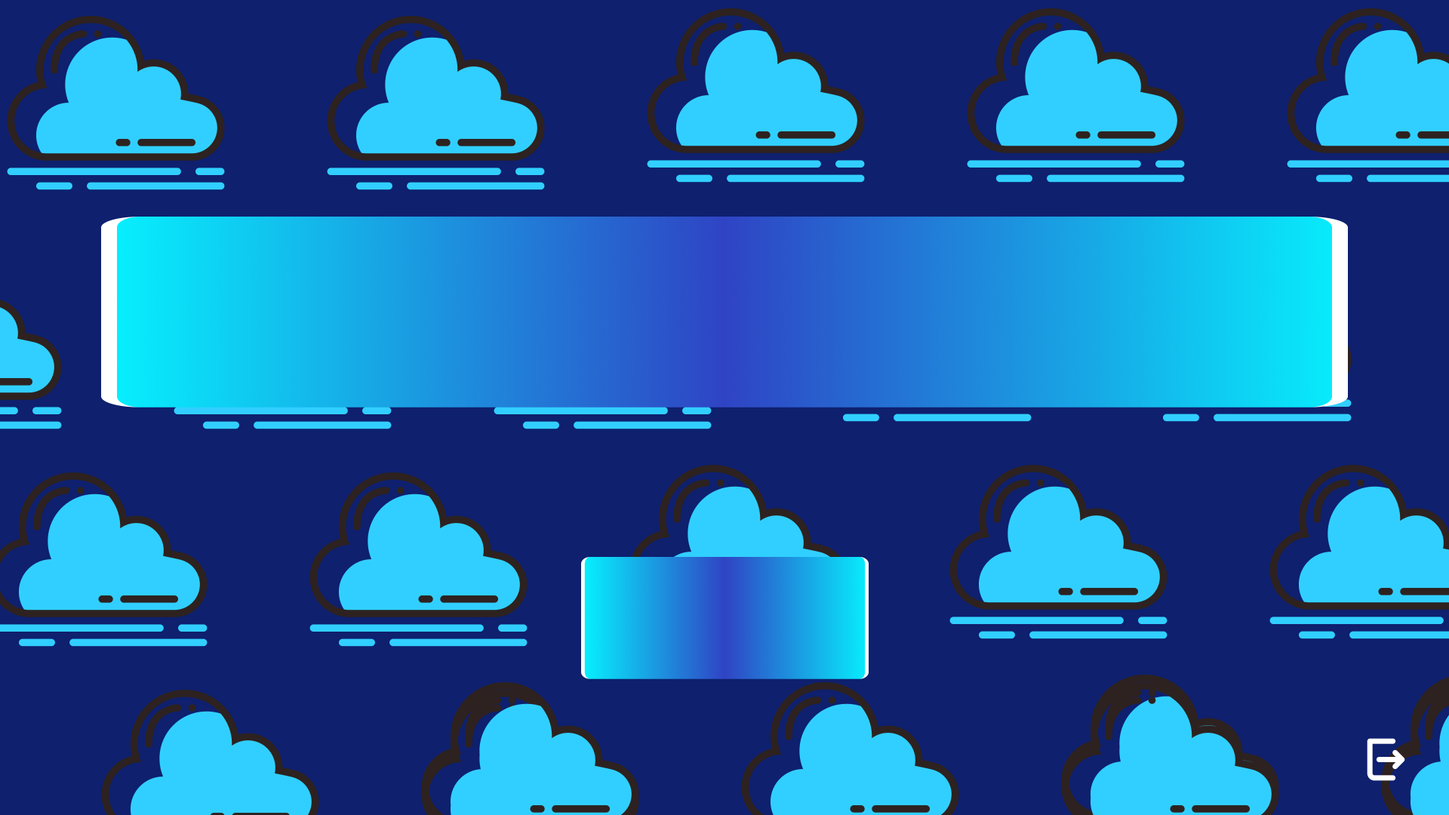
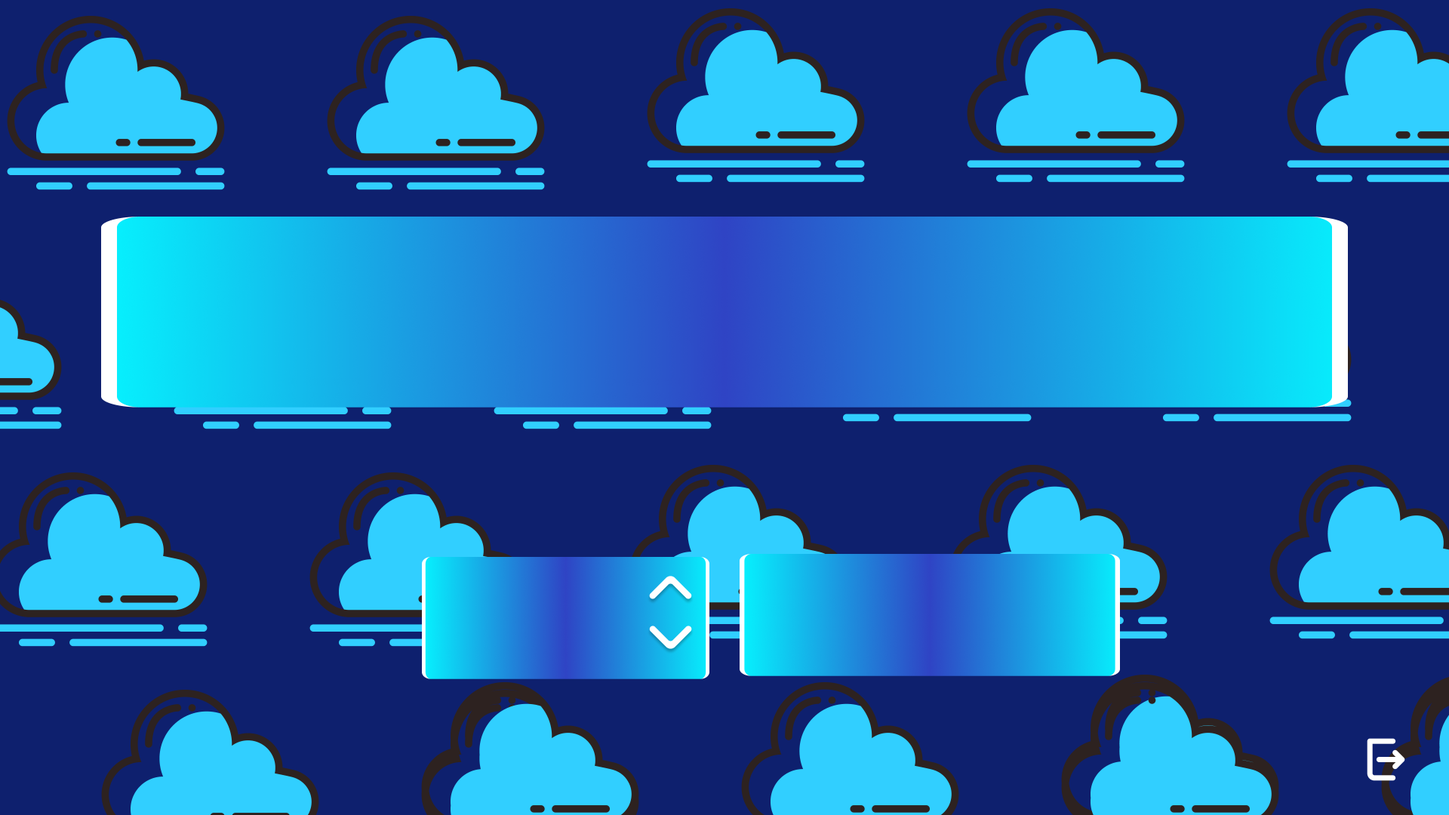
Added Host_WaitingForPlayers
TODO: GetCurrentGameID() and GetConnectedPlayersNumber()

Changed region(s): [[0.2812, 0.6722, 0.7812, 0.8556]]

diff --git a/board-games/board-games/View/ChoosePlayerNumberView.xaml b/board-games/board-games/View/ChoosePlayerNumberView.xaml
@@ -8,39 +8,32 @@
       d:DesignHeight="450" d:DesignWidth="800"
       Title="ChoosePlayerNumberView">
 
-    <Viewbox xmlns:x="http://schemas.microsoft.com/winfx/2006/xaml" xmlns:d="http://schemas.microsoft.com/expression/blend/2008" xmlns="http://schemas.microsoft.com/winfx/2006/xaml/presentation" Stretch="Uniform" Name="ChoosePlayerNr_ImageBackground_xaml">
-
+    <Viewbox xmlns:x="http://schemas.microsoft.com/winfx/2006/xaml" xmlns:d="http://schemas.microsoft.com/expression/blend/2008" xmlns="http://schemas.microsoft.com/winfx/2006/xaml/presentation" Stretch="Uniform" Name="ChoosePlayerNr_ImageBackground_confirm_xaml">
         <Canvas UseLayoutRounding="False" Width="1920.0" Height="1080.0">
-            <Image Source="../Resources/choose_player_number_background.png" Width="1920" Height="1080"/>
+            <Canvas.Clip>
+                <RectangleGeometry Rect="0.0,0.0,1920.0,1080.0"/>
+            </Canvas.Clip>
+            <Image Source="../Resources/choose_player_number_background.png" Width="1920" Height="1079"/>
             <Canvas UseLayoutRounding="False">
                 <Canvas.Clip>
                     <RectangleGeometry Rect="0.0,0.0,1920.0,1080.0"/>
                 </Canvas.Clip>
-                <Canvas UseLayoutRounding="False">
-                    <Path Fill="#ffffffff">
-                        <Path.Data>
-                            <PathGeometry Figures="M 1121.98 796.343 C 1123.63 794.699 1123.63 792.034 1121.98 790.391 L 1101.39 769.823 C 1098.11 766.539 1092.78 766.54 1089.49 769.826 L 1068.91 790.406 C 1067.27 792.05 1067.27 794.714 1068.91 796.358 C 1070.56 798.001 1073.22 798.001 1074.87 796.358 L 1092.48 778.743 C 1094.12 777.1 1096.79 777.1 1098.43 778.743 L 1116.03 796.343 C 1117.67 797.986 1120.34 797.986 1121.98 796.343 Z" FillRule="Nonzero"/>
-                        </Path.Data>
-                    </Path>
-                </Canvas>
-                <Canvas UseLayoutRounding="False">
-                    <Path Fill="#ffffffff">
-                        <Path.Data>
-                            <PathGeometry Figures="M 1069.02 834.657 C 1067.37 836.301 1067.37 838.966 1069.02 840.609 L 1089.61 861.177 C 1092.89 864.461 1098.22 864.46 1101.51 861.174 L 1122.09 840.594 C 1123.73 838.95 1123.73 836.286 1122.09 834.642 C 1120.44 832.999 1117.78 832.999 1116.13 834.642 L 1098.52 852.257 C 1096.88 853.9 1094.21 853.9 1092.57 852.257 L 1074.97 834.657 C 1073.33 833.014 1070.66 833.014 1069.02 834.657 Z" FillRule="Nonzero"/>
-                        </Path.Data>
-                    </Path>
-                </Canvas>
                 <Path Fill="#ffffffff">
                     <Path.Data>
                         <PathGeometry Figures="M 321.47 398.48 C 308.798 398.48 299.102 395.568 292.382 389.744 C 285.662 383.856 282.302 375.152 282.302 363.632 C 282.302 352.176 285.662 343.504 292.382 337.616 C 299.102 331.728 308.798 328.816 321.47 328.88 L 356.03 329.072 V 341.36 H 322.526 C 314.206 341.36 308.03 343.12 303.998 346.64 C 299.966 350.16 297.95 355.824 297.95 363.632 C 297.95 371.44 299.966 377.136 303.998 380.72 C 308.03 384.24 314.206 386 322.526 386 H 356.99 V 398.48 H 321.47 Z M 366.579 398 V 329.36 H 381.939 V 357.488 H 430.323 V 329.36 H 445.683 V 398 H 430.323 V 369.968 H 381.939 V 398 H 366.579 Z M 493.767 398.48 C 481.543 398.48 472.071 395.568 465.351 389.744 C 458.631 383.856 455.271 375.152 455.271 363.632 C 455.271 352.176 458.631 343.536 465.351 337.712 C 472.071 331.824 481.767 328.88 494.439 328.88 H 511.719 C 524.391 328.88 534.087 331.824 540.807 337.712 C 547.527 343.536 550.887 352.176 550.887 363.632 C 550.887 375.152 547.527 383.856 540.807 389.744 C 534.087 395.568 524.551 398.48 512.199 398.48 H 493.767 Z M 495.495 341.36 C 488.391 341.36 482.855 342.64 478.887 345.2 C 474.919 347.76 472.423 351.824 471.399 357.392 H 534.759 C 533.735 351.824 531.239 347.76 527.271 345.2 C 523.303 342.64 517.767 341.36 510.663 341.36 H 495.495 Z M 495.783 386 H 510.663 C 517.831 386 523.367 384.72 527.271 382.16 C 531.239 379.6 533.735 375.504 534.759 369.872 H 471.399 C 472.423 375.504 474.919 379.6 478.887 382.16 C 482.855 384.72 488.487 386 495.783 386 Z M 596.985 398.48 C 584.761 398.48 575.289 395.568 568.569 389.744 C 561.849 383.856 558.489 375.152 558.489 363.632 C 558.489 352.176 561.849 343.536 568.569 337.712 C 575.289 331.824 584.985 328.88 597.657 328.88 H 614.937 C 627.609 328.88 637.305 331.824 644.025 337.712 C 650.745 343.536 654.105 352.176 654.105 363.632 C 654.105 375.152 650.745 383.856 644.025 389.744 C 637.305 395.568 627.769 398.48 615.417 398.48 H 596.985 Z M 598.713 341.36 C 591.609 341.36 586.073 342.64 582.105 345.2 C 578.137 347.76 575.641 351.824 574.617 357.392 H 637.977 C 636.953 351.824 634.457 347.76 630.489 345.2 C 626.521 342.64 620.985 341.36 613.881 341.36 H 598.713 Z M 599.001 386 H 613.881 C 621.049 386 626.585 384.72 630.489 382.16 C 634.457 379.6 636.953 375.504 637.977 369.872 H 574.617 C 575.641 375.504 578.137 379.6 582.105 382.16 C 586.073 384.72 591.705 386 599.001 386 Z M 661.465 398.48 V 386 L 716.665 386.096 C 719.481 386.096 721.625 385.456 723.097 384.176 C 724.633 382.832 725.401 380.688 725.401 377.744 C 725.401 374.8 724.633 372.688 723.097 371.408 C 721.625 370.064 719.481 369.392 716.665 369.392 H 682.297 C 675.193 369.392 669.657 367.696 665.689 364.304 C 661.785 360.848 659.833 355.792 659.833 349.136 C 659.833 342.48 661.785 337.456 665.689 334.064 C 669.657 330.608 675.193 328.88 682.297 328.88 H 736.249 V 341.36 L 683.929 341.264 C 681.177 341.264 679.033 341.904 677.497 343.184 C 675.961 344.4 675.193 346.384 675.193 349.136 C 675.193 351.888 675.961 353.904 677.497 355.184 C 679.033 356.4 681.177 357.008 683.929 357.008 H 718.297 C 725.401 357.008 730.905 358.768 734.809 362.288 C 738.777 365.744 740.761 370.896 740.761 377.744 C 740.761 384.528 738.777 389.68 734.809 393.2 C 730.905 396.72 725.401 398.48 718.297 398.48 H 661.465 Z M 750.392 398 V 329.36 H 825.656 V 341.84 H 765.752 V 357.008 H 820.088 V 369.488 H 765.752 V 385.52 H 825.656 V 398 H 750.392 Z M 869.736 398 V 329.36 H 885.288 L 933.864 378.704 V 329.36 H 949.224 V 398 H 933.672 L 885.096 348.56 V 398 H 869.736 Z M 990.386 398.48 C 983.41 398.48 977.906 397.584 973.874 395.792 C 969.842 393.936 966.962 391.152 965.234 387.44 C 963.506 383.728 962.642 379.056 962.642 373.424 V 329.36 H 978.002 V 373.424 C 978.002 378.288 979.122 381.616 981.362 383.408 C 983.666 385.136 987.538 386 992.978 386 H 1011.51 C 1016.95 386 1020.79 385.136 1023.03 383.408 C 1025.33 381.616 1026.48 378.288 1026.48 373.424 V 329.36 H 1041.84 V 373.424 C 1041.84 379.056 1040.98 383.728 1039.25 387.44 C 1037.52 391.152 1034.64 393.936 1030.61 395.792 C 1026.58 397.584 1021.07 398.48 1014.1 398.48 H 990.386 Z M 1055.27 398 V 329.36 H 1068.13 L 1099.91 351.632 H 1100.39 L 1132.16 329.36 H 1145.03 V 398 H 1129.67 V 348.56 L 1107.87 363.152 V 398 H 1092.51 V 363.152 L 1070.63 348.56 V 398 H 1055.27 Z M 1158.49 398 V 329.552 L 1216.28 329.36 C 1223.89 329.36 1229.53 330.96 1233.17 334.16 C 1236.89 337.296 1238.74 342.032 1238.74 348.368 C 1238.74 354.704 1236.63 359.344 1232.41 362.288 C 1235.22 363.824 1237.3 365.872 1238.65 368.432 C 1239.99 370.928 1240.66 374.16 1240.66 378.128 C 1240.66 384.592 1238.81 389.52 1235.09 392.912 C 1231.45 396.24 1225.81 397.904 1218.2 397.904 L 1158.49 398 Z M 1214.45 341.648 H 1173.85 V 357.008 H 1214.45 C 1220.28 357.008 1223.19 354.384 1223.19 349.136 C 1223.19 344.144 1220.28 341.648 1214.45 341.648 Z M 1216.37 369.296 H 1173.85 V 385.616 H 1216.37 C 1222.2 385.616 1225.11 382.864 1225.11 377.36 C 1225.11 371.984 1222.2 369.296 1216.37 369.296 Z M 1251.2 398 V 329.36 H 1326.47 V 341.84 H 1266.56 V 357.008 H 1320.9 V 369.488 H 1266.56 V 385.52 H 1326.47 V 398 H 1251.2 Z M 1336.99 398 V 329.36 H 1394.49 C 1401.59 329.36 1407.1 331.152 1411 334.736 C 1414.97 338.32 1416.95 343.76 1416.95 351.056 C 1416.95 357.264 1415.51 362.128 1412.63 365.648 C 1409.75 369.168 1405.66 371.376 1400.35 372.272 L 1416.19 398 H 1398.71 L 1384.03 372.752 H 1352.35 V 398 H 1336.99 Z M 1392.67 341.84 H 1352.35 V 360.176 L 1392.67 360.272 C 1395.48 360.272 1397.63 359.568 1399.1 358.16 C 1400.63 356.752 1401.4 354.384 1401.4 351.056 C 1401.4 347.664 1400.63 345.296 1399.1 343.952 C 1397.63 342.544 1395.48 341.84 1392.67 341.84 Z M 1496.7 398.48 C 1484.48 398.48 1475.01 395.568 1468.29 389.744 C 1461.57 383.856 1458.21 375.152 1458.21 363.632 C 1458.21 352.176 1461.57 343.536 1468.29 337.712 C 1475.01 331.824 1484.7 328.88 1497.38 328.88 H 1514.66 C 1527.33 328.88 1537.02 331.824 1543.74 337.712 C 1550.46 343.536 1553.82 352.176 1553.82 363.632 C 1553.82 375.152 1550.46 383.856 1543.74 389.744 C 1537.02 395.568 1527.49 398.48 1515.14 398.48 H 1496.7 Z M 1498.43 341.36 C 1491.33 341.36 1485.79 342.64 1481.82 345.2 C 1477.86 347.76 1475.36 351.824 1474.34 357.392 H 1537.7 C 1536.67 351.824 1534.18 347.76 1530.21 345.2 C 1526.24 342.64 1520.7 341.36 1513.6 341.36 H 1498.43 Z M 1498.72 386 H 1513.6 C 1520.77 386 1526.3 384.72 1530.21 382.16 C 1534.18 379.6 1536.67 375.504 1537.7 369.872 H 1474.34 C 1475.36 375.504 1477.86 379.6 1481.82 382.16 C 1485.79 384.72 1491.42 386 1498.72 386 Z M 1563.39 398 V 329.36 H 1636.74 V 341.84 H 1578.75 V 360.848 H 1629.25 V 373.328 H 1578.75 V 398 H 1563.39 Z M 658.986 513 V 444.36 H 716.49 C 723.594 444.36 729.098 446.152 733.002 449.736 C 736.97 453.32 738.954 458.76 738.954 466.056 C 738.954 473.352 736.97 478.792 733.002 482.376 C 729.098 485.96 723.594 487.752 716.49 487.752 H 674.346 V 513 H 658.986 Z M 714.666 456.84 H 674.346 V 475.176 L 714.666 475.272 C 717.482 475.272 719.626 474.568 721.098 473.16 C 722.634 471.752 723.402 469.384 723.402 466.056 C 723.402 462.664 722.634 460.296 721.098 458.952 C 719.626 457.544 717.482 456.84 714.666 456.84 Z M 748.517 513 V 444.36 H 763.877 V 500.52 H 814.085 V 513 H 748.517 Z M 817.944 513 L 848.856 444.36 H 872.568 L 903.48 513 H 886.776 L 880.248 498.504 H 841.176 L 834.648 513 H 817.944 Z M 846.744 486.024 H 874.68 L 861.336 456.36 H 860.088 L 846.744 486.024 Z M 924.993 513 V 488.52 L 888.609 444.36 H 907.617 L 932.673 475.464 L 957.633 444.36 H 976.641 L 940.449 488.424 V 513 H 924.993 Z M 983.361 513 V 444.36 H 1058.62 V 456.84 H 998.721 V 472.008 H 1053.06 V 484.488 H 998.721 V 500.52 H 1058.62 V 513 H 983.361 Z M 1069.14 513 V 444.36 H 1126.65 C 1133.75 444.36 1139.25 446.152 1143.16 449.736 C 1147.13 453.32 1149.11 458.76 1149.11 466.056 C 1149.11 472.264 1147.67 477.128 1144.79 480.648 C 1141.91 484.168 1137.81 486.376 1132.5 487.272 L 1148.34 513 H 1130.87 L 1116.18 487.752 H 1084.5 V 513 H 1069.14 Z M 1124.82 456.84 H 1084.5 V 475.176 L 1124.82 475.272 C 1127.64 475.272 1129.78 474.568 1131.25 473.16 C 1132.79 471.752 1133.56 469.384 1133.56 466.056 C 1133.56 462.664 1132.79 460.296 1131.25 458.952 C 1129.78 457.544 1127.64 456.84 1124.82 456.84 Z M 1158.43 513.48 V 501 L 1213.63 501.096 C 1216.45 501.096 1218.59 500.456 1220.07 499.176 C 1221.6 497.832 1222.37 495.688 1222.37 492.744 C 1222.37 489.8 1221.6 487.688 1220.07 486.408 C 1218.59 485.064 1216.45 484.392 1213.63 484.392 H 1179.27 C 1172.16 484.392 1166.63 482.696 1162.66 479.304 C 1158.75 475.848 1156.8 470.792 1156.8 464.136 C 1156.8 457.48 1158.75 452.456 1162.66 449.064 C 1166.63 445.608 1172.16 443.88 1179.27 443.88 H 1233.22 V 456.36 L 1180.9 456.264 C 1178.15 456.264 1176 456.904 1174.47 458.184 C 1172.93 459.4 1172.16 461.384 1172.16 464.136 C 1172.16 466.888 1172.93 468.904 1174.47 470.184 C 1176 471.4 1178.15 472.008 1180.9 472.008 H 1215.27 C 1222.37 472.008 1227.87 473.768 1231.78 477.288 C 1235.75 480.744 1237.73 485.896 1237.73 492.744 C 1237.73 499.528 1235.75 504.68 1231.78 508.2 C 1227.87 511.72 1222.37 513.48 1215.27 513.48 H 1158.43 Z M 1246.4 513 V 499.272 H 1261.76 V 513 H 1246.4 Z M 1246.4 477.288 V 463.56 H 1261.76 V 477.288 H 1246.4 Z" FillRule="Nonzero"/>
                     </Path.Data>
                 </Path>
+                <Path Fill="#ffffffff">
+                    <Path.Data>
+                        <PathGeometry Figures="M 1058.12 843.35 C 1048.88 843.35 1041.81 841.227 1036.91 836.98 C 1032.01 832.687 1029.56 826.34 1029.56 817.94 C 1029.56 809.587 1032.01 803.263 1036.91 798.97 C 1041.81 794.677 1048.88 792.553 1058.12 792.6 L 1083.32 792.74 V 801.7 H 1058.89 C 1052.83 801.7 1048.32 802.983 1045.38 805.55 C 1042.44 808.117 1040.97 812.247 1040.97 817.94 C 1040.97 823.633 1042.44 827.787 1045.38 830.4 C 1048.32 832.967 1052.83 834.25 1058.89 834.25 H 1084.02 V 843.35 H 1058.12 Z M 1114.92 843.35 C 1106 843.35 1099.1 841.227 1094.2 836.98 C 1089.3 832.687 1086.85 826.34 1086.85 817.94 C 1086.85 809.587 1089.3 803.287 1094.2 799.04 C 1099.1 794.747 1106.17 792.6 1115.41 792.6 H 1128.01 C 1137.25 792.6 1144.32 794.747 1149.22 799.04 C 1154.12 803.287 1156.57 809.587 1156.57 817.94 C 1156.57 826.34 1154.12 832.687 1149.22 836.98 C 1144.32 841.227 1137.36 843.35 1128.36 843.35 H 1114.92 Z M 1116.18 801.7 C 1111 801.7 1106.96 802.633 1104.07 804.5 C 1101.17 806.367 1099.35 809.33 1098.61 813.39 H 1144.81 C 1144.06 809.33 1142.24 806.367 1139.35 804.5 C 1136.45 802.633 1132.42 801.7 1127.24 801.7 H 1116.18 Z M 1116.39 834.25 H 1127.24 C 1132.46 834.25 1136.5 833.317 1139.35 831.45 C 1142.24 829.583 1144.06 826.597 1144.81 822.49 H 1098.61 C 1099.35 826.597 1101.17 829.583 1104.07 831.45 C 1106.96 833.317 1111.07 834.25 1116.39 834.25 Z M 1163.54 843 V 792.95 H 1174.88 L 1210.3 828.93 V 792.95 H 1221.5 V 843 H 1210.16 L 1174.74 806.95 V 843 H 1163.54 Z M 1231.29 843 V 792.95 H 1284.77 V 802.05 H 1242.49 V 815.91 H 1279.31 V 825.01 H 1242.49 V 843 H 1231.29 Z M 1292.47 843 V 792.95 H 1303.67 V 843 H 1292.47 Z M 1313.46 843 V 792.95 H 1355.39 C 1360.57 792.95 1364.58 794.257 1367.43 796.87 C 1370.32 799.483 1371.77 803.45 1371.77 808.77 C 1371.77 813.297 1370.72 816.843 1368.62 819.41 C 1366.52 821.977 1363.53 823.587 1359.66 824.24 L 1371.21 843 H 1358.47 L 1347.76 824.59 H 1324.66 V 843 H 1313.46 Z M 1354.06 802.05 H 1324.66 V 815.42 L 1354.06 815.49 C 1356.11 815.49 1357.67 814.977 1358.75 813.95 C 1359.87 812.923 1360.43 811.197 1360.43 808.77 C 1360.43 806.297 1359.87 804.57 1358.75 803.59 C 1357.67 802.563 1356.11 802.05 1354.06 802.05 Z M 1380.17 843 V 792.95 H 1389.55 L 1412.72 809.19 H 1413.07 L 1436.24 792.95 H 1445.62 V 843 H 1434.42 V 806.95 L 1418.53 817.59 V 843 H 1407.33 V 817.59 L 1391.37 806.95 V 843 H 1380.17 Z" FillRule="Nonzero"/>
+                    </Path.Data>
+                </Path>
             </Canvas>
-
-            <TextBlock x:Name="PlayerNumberTextBlock" Height="146" Canvas.Left="847" TextWrapping="Wrap" Canvas.Top="741" Width="195" FontFamily="{DynamicResource ZenDots}" FontSize="100" FontStyle="Normal" FontWeight="Bold" HorizontalAlignment="Center" VerticalAlignment="Center" Foreground="#FFFAEDED"><Run Text="0"/><LineBreak/><Run/></TextBlock>
-            <Button x:Name="BackButton" Content="" Height="66" Canvas.Left="1807" Canvas.Top="975" Width="62" BorderBrush="Transparent" Background="Transparent" Click="BackButton_Click"/>
-            <Button x:Name="UpArrowButton" Content="" Height="54" Canvas.Left="1059" Canvas.Top="758" Width="78" BorderBrush="Transparent" Background="Transparent" HorizontalAlignment="Center" VerticalAlignment="Top" Click="UpArrowButton_Click"/>
-            <Button x:Name="DownArrowButton" Content="" Height="54" Canvas.Left="1059" Canvas.Top="819" Width="78" BorderBrush="Transparent" Background="Transparent" HorizontalAlignment="Center" VerticalAlignment="Top" Click="DownArrowButton_Click"/>
+            <Button x:Name="ConfirmButton" Content="" Height="141" Canvas.Left="1003" Canvas.Top="743" Width="454" BorderBrush="Transparent" Background="Transparent" Click="ConfirmButton_Click" />
+            <Button x:Name="UpArrowButton" Content="" Height="65" Canvas.Left="851" Canvas.Top="745" Width="74" BorderBrush="Transparent" Background="Transparent" HorizontalAlignment="Left" VerticalAlignment="Center" Click="UpArrowButton_Click" />
+            <Button x:Name="DownArrowButton" Content="" Height="65" Canvas.Left="851" Canvas.Top="814" Width="74" BorderBrush="Transparent" Background="Transparent" HorizontalAlignment="Left" VerticalAlignment="Center" Click="DownArrowButton_Click" />
+            <Button x:Name="BackButton" Content="" Height="65" Canvas.Left="1803" Canvas.Top="972" Width="63" BorderBrush="Transparent" Background="Transparent" HorizontalAlignment="Left" VerticalAlignment="Center" Click="BackButton_Click" />
+            <TextBlock x:Name="PlayerNumberTextBlock" Height="116" Canvas.Left="721" TextWrapping="Wrap" Text="0" Canvas.Top="762" Width="110" HorizontalAlignment="Left" VerticalAlignment="Center" FontFamily="Bahnschrift SemiLight" FontSize="100" Foreground="#FFFDECEC"/>
         </Canvas>
     </Viewbox>
 </Page>

diff --git a/board-games/board-games/View/Host_WaitingForPlayersView.xaml b/board-games/board-games/View/Host_WaitingForPlayersView.xaml
@@ -1,0 +1,45 @@
+<Page x:Class="board_games.View.Host_WaitingForPlayersView"
+      xmlns="http://schemas.microsoft.com/winfx/2006/xaml/presentation"
+      xmlns:x="http://schemas.microsoft.com/winfx/2006/xaml"
+      xmlns:mc="http://schemas.openxmlformats.org/markup-compatibility/2006" 
+      xmlns:d="http://schemas.microsoft.com/expression/blend/2008" 
+      xmlns:local="clr-namespace:board_games.View"
+      mc:Ignorable="d" 
+      d:DesignHeight="450" d:DesignWidth="800"
+      Title="Host_WaitingForPlayersView">
+
+    <Viewbox xmlns:x="http://schemas.microsoft.com/winfx/2006/xaml" xmlns:d="http://schemas.microsoft.com/expression/blend/2008" xmlns="http://schemas.microsoft.com/winfx/2006/xaml/presentation" Stretch="Uniform" Name="HostWaitingImageBackground__Template_xaml">
+        <Canvas UseLayoutRounding="False" Width="1920.0" Height="1080.0">
+            <Canvas.Clip>
+                <RectangleGeometry Rect="0.0,0.0,1920.0,1080.0"/>
+            </Canvas.Clip>
+
+            <Image Source="../Resources/host_waiting_for_players.png" Width="1920" Height="1080"/>
+
+            <Canvas UseLayoutRounding="False">
+                <Canvas.Clip>
+                    <RectangleGeometry Rect="0.0,0.0,1920.0,1080.0"/>
+                </Canvas.Clip>
+                <Path Fill="#ffffffff">
+                    <Path.Data>
+                        <PathGeometry Figures="M 205.589 448 L 197.909 379.36 H 213.269 L 218.933 429.472 L 238.037 414.784 V 379.36 H 253.397 V 414.88 L 272.309 429.472 L 278.069 379.36 H 293.429 L 285.749 448 H 272.885 L 245.717 426.016 L 218.453 448 H 205.589 Z M 295.319 448 L 326.231 379.36 H 349.943 L 380.855 448 H 364.151 L 357.623 433.504 H 318.551 L 312.023 448 H 295.319 Z M 324.119 421.024 H 352.055 L 338.711 391.36 H 337.463 L 324.119 421.024 Z M 388.548 448 V 379.36 H 403.908 V 448 H 388.548 Z M 414.929 414.112 V 379.36 H 499.409 V 414.112 H 483.857 V 391.84 H 462.929 V 448 H 447.569 V 391.84 H 430.481 V 414.112 H 414.929 Z M 510.423 448 V 379.36 H 525.783 V 448 H 510.423 Z M 539.204 448 V 379.36 H 554.756 L 603.332 428.704 V 379.36 H 618.692 V 448 H 603.14 L 554.564 398.56 V 448 H 539.204 Z M 665.519 448.48 C 653.807 448.48 644.655 445.568 638.063 439.744 C 631.535 433.856 628.271 425.152 628.271 413.632 C 628.271 402.176 631.599 393.536 638.255 387.712 C 644.975 381.824 654.703 378.88 667.439 378.88 H 703.919 V 391.36 H 668.495 C 660.111 391.36 653.903 393.12 649.871 396.64 C 645.903 400.16 643.919 405.824 643.919 413.632 C 643.919 421.056 645.679 426.56 649.199 430.144 C 652.719 433.664 657.871 435.584 664.655 435.904 V 409.216 H 707.663 V 448.48 H 665.519 Z M 679.055 436 H 692.303 V 421.696 H 679.055 V 436 Z M 754.642 448 V 379.36 H 827.986 V 391.84 H 770.002 V 410.848 H 820.498 V 423.328 H 770.002 V 448 H 754.642 Z M 873.204 448.48 C 860.98 448.48 851.508 445.568 844.788 439.744 C 838.068 433.856 834.708 425.152 834.708 413.632 C 834.708 402.176 838.068 393.536 844.788 387.712 C 851.508 381.824 861.204 378.88 873.876 378.88 H 891.156 C 903.828 378.88 913.524 381.824 920.244 387.712 C 926.964 393.536 930.324 402.176 930.324 413.632 C 930.324 425.152 926.964 433.856 920.244 439.744 C 913.524 445.568 903.988 448.48 891.636 448.48 H 873.204 Z M 874.932 391.36 C 867.828 391.36 862.292 392.64 858.324 395.2 C 854.356 397.76 851.86 401.824 850.836 407.392 H 914.196 C 913.172 401.824 910.676 397.76 906.708 395.2 C 902.74 392.64 897.204 391.36 890.1 391.36 H 874.932 Z M 875.22 436 H 890.1 C 897.268 436 902.804 434.72 906.708 432.16 C 910.676 429.6 913.172 425.504 914.196 419.872 H 850.836 C 851.86 425.504 854.356 429.6 858.324 432.16 C 862.292 434.72 867.924 436 875.22 436 Z M 939.892 448 V 379.36 H 997.396 C 1004.5 379.36 1010 381.152 1013.91 384.736 C 1017.88 388.32 1019.86 393.76 1019.86 401.056 C 1019.86 407.264 1018.42 412.128 1015.54 415.648 C 1012.66 419.168 1008.56 421.376 1003.25 422.272 L 1019.09 448 H 1001.62 L 986.932 422.752 H 955.252 V 448 H 939.892 Z M 995.572 391.84 H 955.252 V 410.176 L 995.572 410.272 C 998.388 410.272 1000.53 409.568 1002 408.16 C 1003.54 406.752 1004.31 404.384 1004.31 401.056 C 1004.31 397.664 1003.54 395.296 1002 393.952 C 1000.53 392.544 998.388 391.84 995.572 391.84 Z M 1064.95 448 V 379.36 H 1122.46 C 1129.56 379.36 1135.07 381.152 1138.97 384.736 C 1142.94 388.32 1144.92 393.76 1144.92 401.056 C 1144.92 408.352 1142.94 413.792 1138.97 417.376 C 1135.07 420.96 1129.56 422.752 1122.46 422.752 H 1080.31 V 448 H 1064.95 Z M 1120.63 391.84 H 1080.31 V 410.176 L 1120.63 410.272 C 1123.45 410.272 1125.59 409.568 1127.07 408.16 C 1128.6 406.752 1129.37 404.384 1129.37 401.056 C 1129.37 397.664 1128.6 395.296 1127.07 393.952 C 1125.59 392.544 1123.45 391.84 1120.63 391.84 Z M 1154.49 448 V 379.36 H 1169.85 V 435.52 H 1220.05 V 448 H 1154.49 Z M 1223.91 448 L 1254.83 379.36 H 1278.54 L 1309.45 448 H 1292.75 L 1286.22 433.504 H 1247.15 L 1240.62 448 H 1223.91 Z M 1252.71 421.024 H 1280.65 L 1267.31 391.36 H 1266.06 L 1252.71 421.024 Z M 1330.96 448 V 423.52 L 1294.58 379.36 H 1313.59 L 1338.64 410.464 L 1363.6 379.36 H 1382.61 L 1346.42 423.424 V 448 H 1330.96 Z M 1389.33 448 V 379.36 H 1464.59 V 391.84 H 1404.69 V 407.008 H 1459.03 V 419.488 H 1404.69 V 435.52 H 1464.59 V 448 H 1389.33 Z M 1475.11 448 V 379.36 H 1532.61 C 1539.72 379.36 1545.22 381.152 1549.13 384.736 C 1553.09 388.32 1555.08 393.76 1555.08 401.056 C 1555.08 407.264 1553.64 412.128 1550.76 415.648 C 1547.88 419.168 1543.78 421.376 1538.47 422.272 L 1554.31 448 H 1536.84 L 1522.15 422.752 H 1490.47 V 448 H 1475.11 Z M 1530.79 391.84 H 1490.47 V 410.176 L 1530.79 410.272 C 1533.61 410.272 1535.75 409.568 1537.22 408.16 C 1538.76 406.752 1539.53 404.384 1539.53 401.056 C 1539.53 397.664 1538.76 395.296 1537.22 393.952 C 1535.75 392.544 1533.61 391.84 1530.79 391.84 Z M 1564.4 448.48 V 436 L 1619.6 436.096 C 1622.42 436.096 1624.56 435.456 1626.03 434.176 C 1627.57 432.832 1628.34 430.688 1628.34 427.744 C 1628.34 424.8 1627.57 422.688 1626.03 421.408 C 1624.56 420.064 1622.42 419.392 1619.6 419.392 H 1585.23 C 1578.13 419.392 1572.59 417.696 1568.63 414.304 C 1564.72 410.848 1562.77 405.792 1562.77 399.136 C 1562.77 392.48 1564.72 387.456 1568.63 384.064 C 1572.59 380.608 1578.13 378.88 1585.23 378.88 H 1639.19 V 391.36 L 1586.87 391.264 C 1584.11 391.264 1581.97 391.904 1580.43 393.184 C 1578.9 394.4 1578.13 396.384 1578.13 399.136 C 1578.13 401.888 1578.9 403.904 1580.43 405.184 C 1581.97 406.4 1584.11 407.008 1586.87 407.008 H 1621.23 C 1628.34 407.008 1633.84 408.768 1637.75 412.288 C 1641.71 415.744 1643.7 420.896 1643.7 427.744 C 1643.7 434.528 1641.71 439.68 1637.75 443.2 C 1633.84 446.72 1628.34 448.48 1621.23 448.48 H 1564.4 Z M 1652.37 448 V 434.272 H 1667.73 V 448 H 1652.37 Z M 1679.46 448 V 434.272 H 1694.82 V 448 H 1679.46 Z M 1706.56 448 V 434.272 H 1721.92 V 448 H 1706.56 Z" FillRule="Nonzero"/>
+                    </Path.Data>
+                </Path>
+                <Path Fill="#ffffffff">
+                    <Path.Data>
+                        <PathGeometry Figures="M 340.657 708.32 C 332.209 708.32 325.745 706.379 321.265 702.496 C 316.785 698.571 314.545 692.768 314.545 685.088 C 314.545 677.451 316.785 671.669 321.265 667.744 C 325.745 663.819 332.209 661.877 340.657 661.92 L 363.697 662.048 V 670.24 H 341.361 C 335.814 670.24 331.697 671.413 329.009 673.76 C 326.321 676.107 324.977 679.883 324.977 685.088 C 324.977 690.293 326.321 694.091 329.009 696.48 C 331.697 698.827 335.814 700 341.361 700 H 364.337 V 708.32 H 340.657 Z M 392.584 708.32 C 384.435 708.32 378.12 706.379 373.64 702.496 C 369.16 698.571 366.92 692.768 366.92 685.088 C 366.92 677.451 369.16 671.691 373.64 667.808 C 378.12 663.883 384.584 661.92 393.032 661.92 H 404.552 C 413 661.92 419.464 663.883 423.944 667.808 C 428.424 671.691 430.664 677.451 430.664 685.088 C 430.664 692.768 428.424 698.571 423.944 702.496 C 419.464 706.379 413.107 708.32 404.872 708.32 H 392.584 Z M 393.736 670.24 C 389 670.24 385.309 671.093 382.664 672.8 C 380.019 674.507 378.355 677.216 377.672 680.928 H 419.912 C 419.229 677.216 417.565 674.507 414.92 672.8 C 412.275 671.093 408.584 670.24 403.848 670.24 H 393.736 Z M 393.928 700 H 403.848 C 408.627 700 412.317 699.147 414.92 697.44 C 417.565 695.733 419.229 693.003 419.912 689.248 H 377.672 C 378.355 693.003 380.019 695.733 382.664 697.44 C 385.309 699.147 389.064 700 393.928 700 Z M 437.043 708 V 662.24 H 444.595 L 465.075 662.176 C 473.352 662.176 479.773 664.117 484.339 668 C 488.904 671.883 491.187 677.579 491.187 685.088 C 491.187 692.597 488.904 698.293 484.339 702.176 C 479.773 706.059 473.352 708 465.075 708 H 437.043 Z M 464.371 670.496 H 447.283 V 699.68 H 464.371 C 469.747 699.68 473.821 698.507 476.595 696.16 C 479.368 693.813 480.755 690.123 480.755 685.088 C 480.755 680.011 479.368 676.32 476.595 674.016 C 473.821 671.669 469.747 670.496 464.371 670.496 Z M 497.605 708 V 662.24 H 547.781 V 670.56 H 507.845 V 680.672 H 544.069 V 688.992 H 507.845 V 699.68 H 547.781 V 708 H 497.605 Z M 554.153 708 V 698.848 H 564.393 V 708 H 554.153 Z M 554.153 684.192 V 675.04 H 564.393 V 684.192 H 554.153 Z" FillRule="Nonzero"/>
+                    </Path.Data>
+                </Path>
+                <Path Fill="#ffffffff">
+                    <Path.Data>
+                        <PathGeometry Figures="M 1279.07 779.32 V 771 L 1315.87 771.064 C 1317.75 771.064 1319.18 770.637 1320.16 769.784 C 1321.18 768.888 1321.69 767.459 1321.69 765.496 C 1321.69 763.533 1321.18 762.125 1320.16 761.272 C 1319.18 760.376 1317.75 759.928 1315.87 759.928 H 1292.96 C 1288.22 759.928 1284.53 758.797 1281.89 756.536 C 1279.28 754.232 1277.98 750.861 1277.98 746.424 C 1277.98 741.987 1279.28 738.637 1281.89 736.376 C 1284.53 734.072 1288.22 732.92 1292.96 732.92 H 1328.93 V 741.24 L 1294.05 741.176 C 1292.21 741.176 1290.78 741.603 1289.76 742.456 C 1288.73 743.267 1288.22 744.589 1288.22 746.424 C 1288.22 748.259 1288.73 749.603 1289.76 750.456 C 1290.78 751.267 1292.21 751.672 1294.05 751.672 H 1316.96 C 1321.69 751.672 1325.36 752.845 1327.97 755.192 C 1330.61 757.496 1331.93 760.931 1331.93 765.496 C 1331.93 770.019 1330.61 773.453 1327.97 775.8 C 1325.36 778.147 1321.69 779.32 1316.96 779.32 H 1279.07 Z M 1336.76 756.408 V 733.24 H 1393.08 V 756.408 H 1382.71 V 741.56 H 1368.76 V 779 H 1358.52 V 741.56 H 1347.12 V 756.408 H 1336.76 Z M 1390.2 779 L 1410.81 733.24 H 1426.62 L 1447.23 779 H 1436.09 L 1431.74 769.336 H 1405.69 L 1401.34 779 H 1390.2 Z M 1409.4 761.016 H 1428.03 L 1419.13 741.24 H 1418.3 L 1409.4 761.016 Z M 1452.36 779 V 733.24 H 1490.69 C 1495.43 733.24 1499.1 734.435 1501.7 736.824 C 1504.34 739.213 1505.67 742.84 1505.67 747.704 C 1505.67 751.843 1504.71 755.085 1502.79 757.432 C 1500.87 759.779 1498.14 761.251 1494.6 761.848 L 1505.16 779 H 1493.51 L 1483.72 762.168 H 1462.6 V 779 H 1452.36 Z M 1489.48 741.56 H 1462.6 V 753.784 L 1489.48 753.848 C 1491.35 753.848 1492.78 753.379 1493.76 752.44 C 1494.79 751.501 1495.3 749.923 1495.3 747.704 C 1495.3 745.443 1494.79 743.864 1493.76 742.968 C 1492.78 742.029 1491.35 741.56 1489.48 741.56 Z M 1511.76 756.408 V 733.24 H 1568.08 V 756.408 H 1557.71 V 741.56 H 1543.76 V 779 H 1533.52 V 741.56 H 1522.12 V 756.408 H 1511.76 Z" FillRule="Nonzero"/>
+                    </Path.Data>
+                </Path>
+            </Canvas>
+            <Button x:Name="BackButton" Content="" Height="68" Canvas.Left="1805" Canvas.Top="972" Width="58" BorderBrush="Transparent" Background="Transparent" Click="BackButton_Click"/>
+            <Button x:Name="StartButton" Content="" Height="214" Canvas.Left="1201" Canvas.Top="656" Width="429" BorderBrush="Transparent" Background="Transparent" HorizontalAlignment="Left" VerticalAlignment="Top" Click="StartButton_Click"/>
+            <TextBlock x:Name="CodeTextBlock" Height="91" Canvas.Left="183" TextWrapping="Wrap" Canvas.Top="712" Width="524" FontFamily="Bahnschrift SemiBold" FontSize="90" Foreground="White"/>
+            <TextBlock x:Name="ConnectedPlayersTextBlock" Height="80" Canvas.Left="385" TextWrapping="Wrap" Canvas.Top="807" Width="120" HorizontalAlignment="Left" VerticalAlignment="Top" Foreground="White" FontFamily="Bahnschrift SemiBold" FontSize="70"/>
+        </Canvas>
+    </Viewbox>
+</Page>

diff --git a/board-games/board-games/View/GameOfLife_MainWindow.xaml b/board-games/board-games/View/GameOfLife_MainWindow.xaml
@@ -1,4 +1,4 @@
-<UserControl x:Class="board_games.GameOfLife_MainWindow"
+<Page x:Class="board_games.GameOfLife_MainWindow"
         xmlns="http://schemas.microsoft.com/winfx/2006/xaml/presentation"
         xmlns:x="http://schemas.microsoft.com/winfx/2006/xaml"
         xmlns:d="http://schemas.microsoft.com/expression/blend/2008"
@@ -1355,4 +1355,4 @@
         </Canvas>
     </Viewbox>
 
-</UserControl>
+</Page>

diff --git a/board-games/board-games/View/Host_WaitingForPlayersView.xaml.cs b/board-games/board-games/View/Host_WaitingForPlayersView.xaml.cs
@@ -1,0 +1,53 @@
+using System;
+using System.Collections.Generic;
+using System.Linq;
+using System.Text;
+using System.Threading.Tasks;
+using System.Windows;
+using System.Windows.Controls;
+using System.Windows.Data;
+using System.Windows.Documents;
+using System.Windows.Input;
+using System.Windows.Media;
+using System.Windows.Media.Imaging;
+using System.Windows.Navigation;
+using System.Windows.Shapes;
+
+namespace board_games.View
+{
+    /// <summary>
+    /// Interaction logic for Host_WaitingForPlayersView.xaml
+    /// </summary>
+    public partial class Host_WaitingForPlayersView : Page
+    {
+        private int _connectedPlayers = 0;
+        private int _playerNumber;
+        private string _gameID = string.Empty;
+        public Host_WaitingForPlayersView(int _playerNumber)
+        {
+            InitializeComponent();
+            this._playerNumber = _playerNumber;
+            Loaded += Host_WaitingForPlayersView_Loaded;
+        }
+
+        private void Host_WaitingForPlayersView_Loaded(object sender, RoutedEventArgs e)
+        {
+            // _connectedPlayers = GetConnectedPlayers();
+            ConnectedPlayersTextBlock.Text = _connectedPlayers.ToString() + "/" + _playerNumber.ToString();
+            // _gameID = GetGameID();
+            CodeTextBlock.Text = "#" + _gameID.ToString();
+        }
+
+        private void StartButton_Click(object sender, RoutedEventArgs e)
+        {
+            this.NavigationService.Navigate(new GameOfLife_MainWindow());
+        }
+
+        private void BackButton_Click(object sender, RoutedEventArgs e)
+        {
+            this.NavigationService.Navigate(new ChoosePlayerNumberView());
+            // !!! When backing out of "waiting for players...", we should close that
+            // game room; we should STOP WAITING FOR PLAYERS and make the code UNAVAILABLE
+        }
+    }
+}

diff --git a/board-games/board-games/View/ChoosePlayerNumberView.xaml.cs b/board-games/board-games/View/ChoosePlayerNumberView.xaml.cs
@@ -49,5 +49,10 @@ namespace board_games.View
                 PlayerNumberTextBlock.Text = _playerNumber.ToString();
             }
         }
+
+        private void ConfirmButton_Click(object sender, RoutedEventArgs e)
+        {
+            this.NavigationService.Navigate(new Host_WaitingForPlayersView(_playerNumber));
+        }
     }
 }
